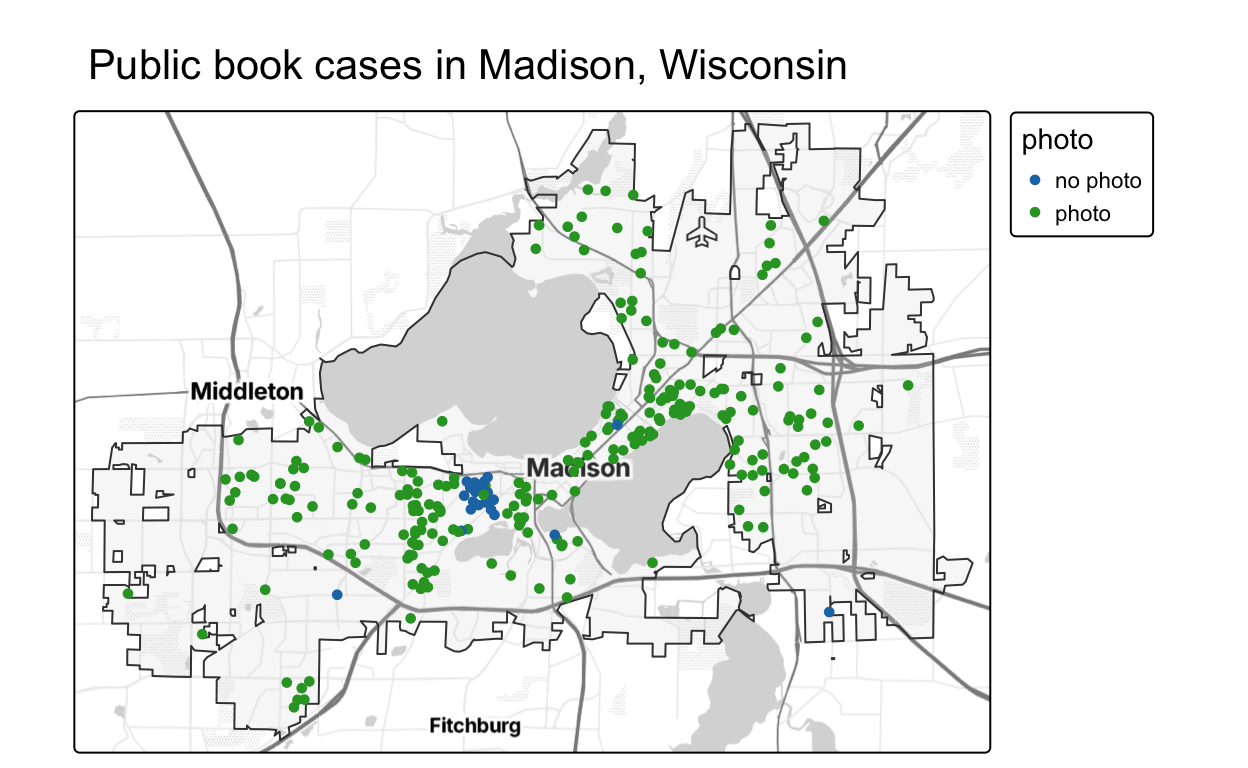
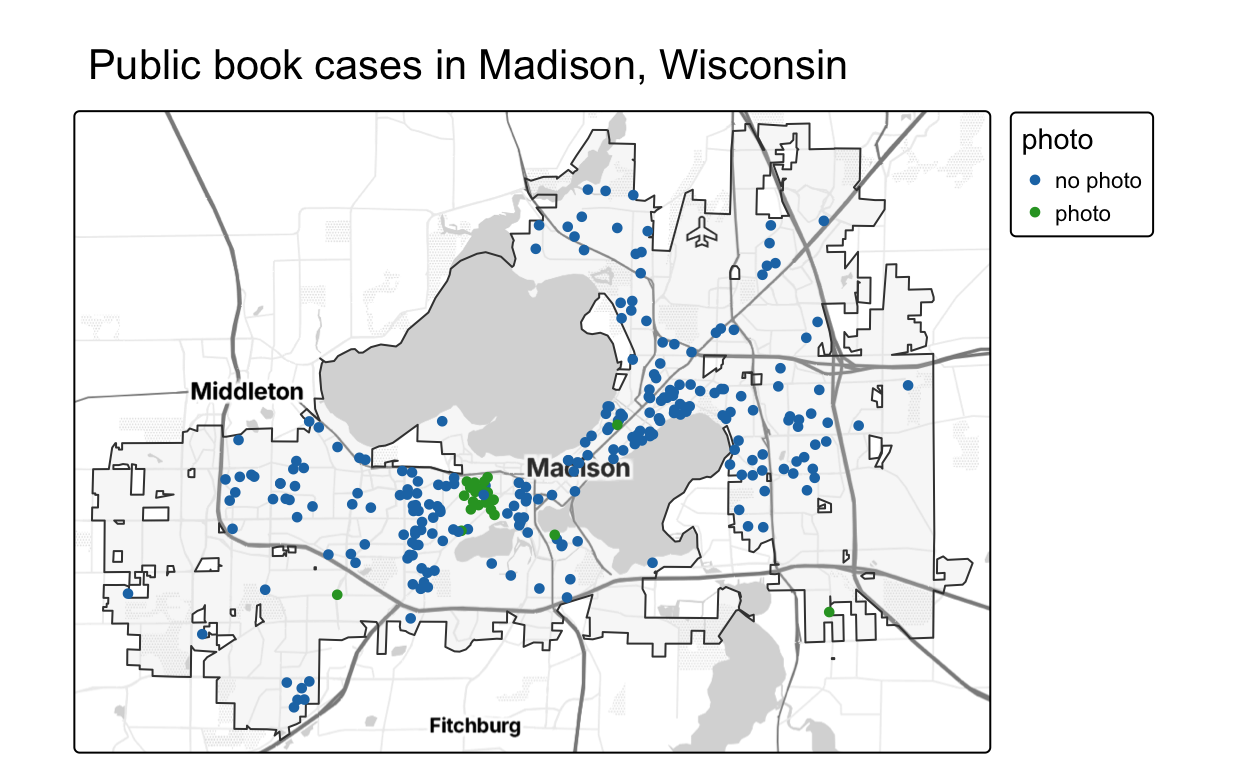
fixed color coding

diff --git a/_posts/2026-11-01-30daymapchallenge-day-1-points/30daymapchallenge-day-1-points.html b/_posts/2026-11-01-30daymapchallenge-day-1-points/30daymapchallenge-day-1-points.html
@@ -1551,6 +1551,7 @@ code span.wa { color: #5e5e5e; font-style: italic; } /* Warning */
 </div>
 
 <div class="d-article">
+<p><strong>Edit: A previous version of this post had the colors of the dots inverted</strong></p>
 <figure>
 <img src="little-free-library.png" alt="A Little Free Library public book case in the shape of a house" />
 <figcaption aria-hidden="true">A Little Free Library public book case in the shape of a house</figcaption>
@@ -1594,7 +1595,7 @@ Show code
 <div class="sourceCode">
 <pre class="sourceCode r"><code class="sourceCode r"><span><span class='fu'><a href='https://r-tmap.github.io/tmap/reference/tmap_mode.html'>tmap_mode</a></span><span class='op'>(</span><span class='st'>"plot"</span><span class='op'>)</span></span>
 <span><span class='va'>bookcases</span> <span class='op'>&lt;-</span> <span class='va'>bookcases</span> <span class='op'>|&gt;</span> </span>
-<span>  <span class='fu'><a href='https://dplyr.tidyverse.org/reference/mutate.html'>mutate</a></span><span class='op'>(</span>photo <span class='op'>=</span> <span class='fu'><a href='https://dplyr.tidyverse.org/reference/if_else.html'>if_else</a></span><span class='op'>(</span><span class='fu'><a href='https://rdrr.io/r/base/NA.html'>is.na</a></span><span class='op'>(</span><span class='va'>panoramax</span><span class='op'>)</span>, <span class='st'>"photo"</span>, <span class='st'>"no photo"</span><span class='op'>)</span><span class='op'>)</span></span>
+<span>  <span class='fu'><a href='https://dplyr.tidyverse.org/reference/mutate.html'>mutate</a></span><span class='op'>(</span>photo <span class='op'>=</span> <span class='fu'><a href='https://dplyr.tidyverse.org/reference/if_else.html'>if_else</a></span><span class='op'>(</span><span class='fu'><a href='https://rdrr.io/r/base/NA.html'>is.na</a></span><span class='op'>(</span><span class='va'>panoramax</span><span class='op'>)</span>, <span class='st'>"no photo"</span>, <span class='st'>"photo"</span><span class='op'>)</span><span class='op'>)</span></span>
 <span></span>
 <span>  <span class='fu'><a href='https://r-tmap.github.io/tmap/reference/tm_basemap.html'>tm_basemap</a></span><span class='op'>(</span>server <span class='op'>=</span> <span class='st'>"Stadia.StamenTonerLite"</span>, api <span class='op'>=</span> <span class='fu'><a href='https://rdrr.io/r/base/Sys.getenv.html'>Sys.getenv</a></span><span class='op'>(</span><span class='st'>"STADIA_API_KEY"</span><span class='op'>)</span><span class='op'>)</span> <span class='op'>+</span></span>
 <span><span class='fu'><a href='https://r-tmap.github.io/tmap/reference/tm_shape.html'>tm_shape</a></span><span class='op'>(</span><span class='va'>madison</span><span class='op'>)</span> <span class='op'>+</span></span>

diff --git a/_site/posts/2026-11-01-30daymapchallenge-day-1-points/index.html b/_site/posts/2026-11-01-30daymapchallenge-day-1-points/index.html
@@ -2193,6 +2193,7 @@ document.addEventListener('DOMContentLoaded', function() {
 </div>
 
 <div class="d-article">
+<p><strong>Edit: A previous version of this post had the colors of the dots inverted</strong></p>
 <figure>
 <img src="little-free-library.png" alt="A Little Free Library public book case in the shape of a house" />
 <figcaption aria-hidden="true">A Little Free Library public book case in the shape of a house</figcaption>
@@ -2236,7 +2237,7 @@ Show code
 <div class="sourceCode">
 <pre class="sourceCode r"><code class="sourceCode r"><span><span class='fu'><a href='https://r-tmap.github.io/tmap/reference/tmap_mode.html'>tmap_mode</a></span><span class='op'>(</span><span class='st'>"plot"</span><span class='op'>)</span></span>
 <span><span class='va'>bookcases</span> <span class='op'>&lt;-</span> <span class='va'>bookcases</span> <span class='op'>|&gt;</span> </span>
-<span>  <span class='fu'><a href='https://dplyr.tidyverse.org/reference/mutate.html'>mutate</a></span><span class='op'>(</span>photo <span class='op'>=</span> <span class='fu'><a href='https://dplyr.tidyverse.org/reference/if_else.html'>if_else</a></span><span class='op'>(</span><span class='fu'><a href='https://rdrr.io/r/base/NA.html'>is.na</a></span><span class='op'>(</span><span class='va'>panoramax</span><span class='op'>)</span>, <span class='st'>"photo"</span>, <span class='st'>"no photo"</span><span class='op'>)</span><span class='op'>)</span></span>
+<span>  <span class='fu'><a href='https://dplyr.tidyverse.org/reference/mutate.html'>mutate</a></span><span class='op'>(</span>photo <span class='op'>=</span> <span class='fu'><a href='https://dplyr.tidyverse.org/reference/if_else.html'>if_else</a></span><span class='op'>(</span><span class='fu'><a href='https://rdrr.io/r/base/NA.html'>is.na</a></span><span class='op'>(</span><span class='va'>panoramax</span><span class='op'>)</span>, <span class='st'>"no photo"</span>, <span class='st'>"photo"</span><span class='op'>)</span><span class='op'>)</span></span>
 <span></span>
 <span>  <span class='fu'><a href='https://r-tmap.github.io/tmap/reference/tm_basemap.html'>tm_basemap</a></span><span class='op'>(</span>server <span class='op'>=</span> <span class='st'>"Stadia.StamenTonerLite"</span>, api <span class='op'>=</span> <span class='fu'><a href='https://rdrr.io/r/base/Sys.getenv.html'>Sys.getenv</a></span><span class='op'>(</span><span class='st'>"STADIA_API_KEY"</span><span class='op'>)</span><span class='op'>)</span> <span class='op'>+</span></span>
 <span><span class='fu'><a href='https://r-tmap.github.io/tmap/reference/tm_shape.html'>tm_shape</a></span><span class='op'>(</span><span class='va'>madison</span><span class='op'>)</span> <span class='op'>+</span></span>
